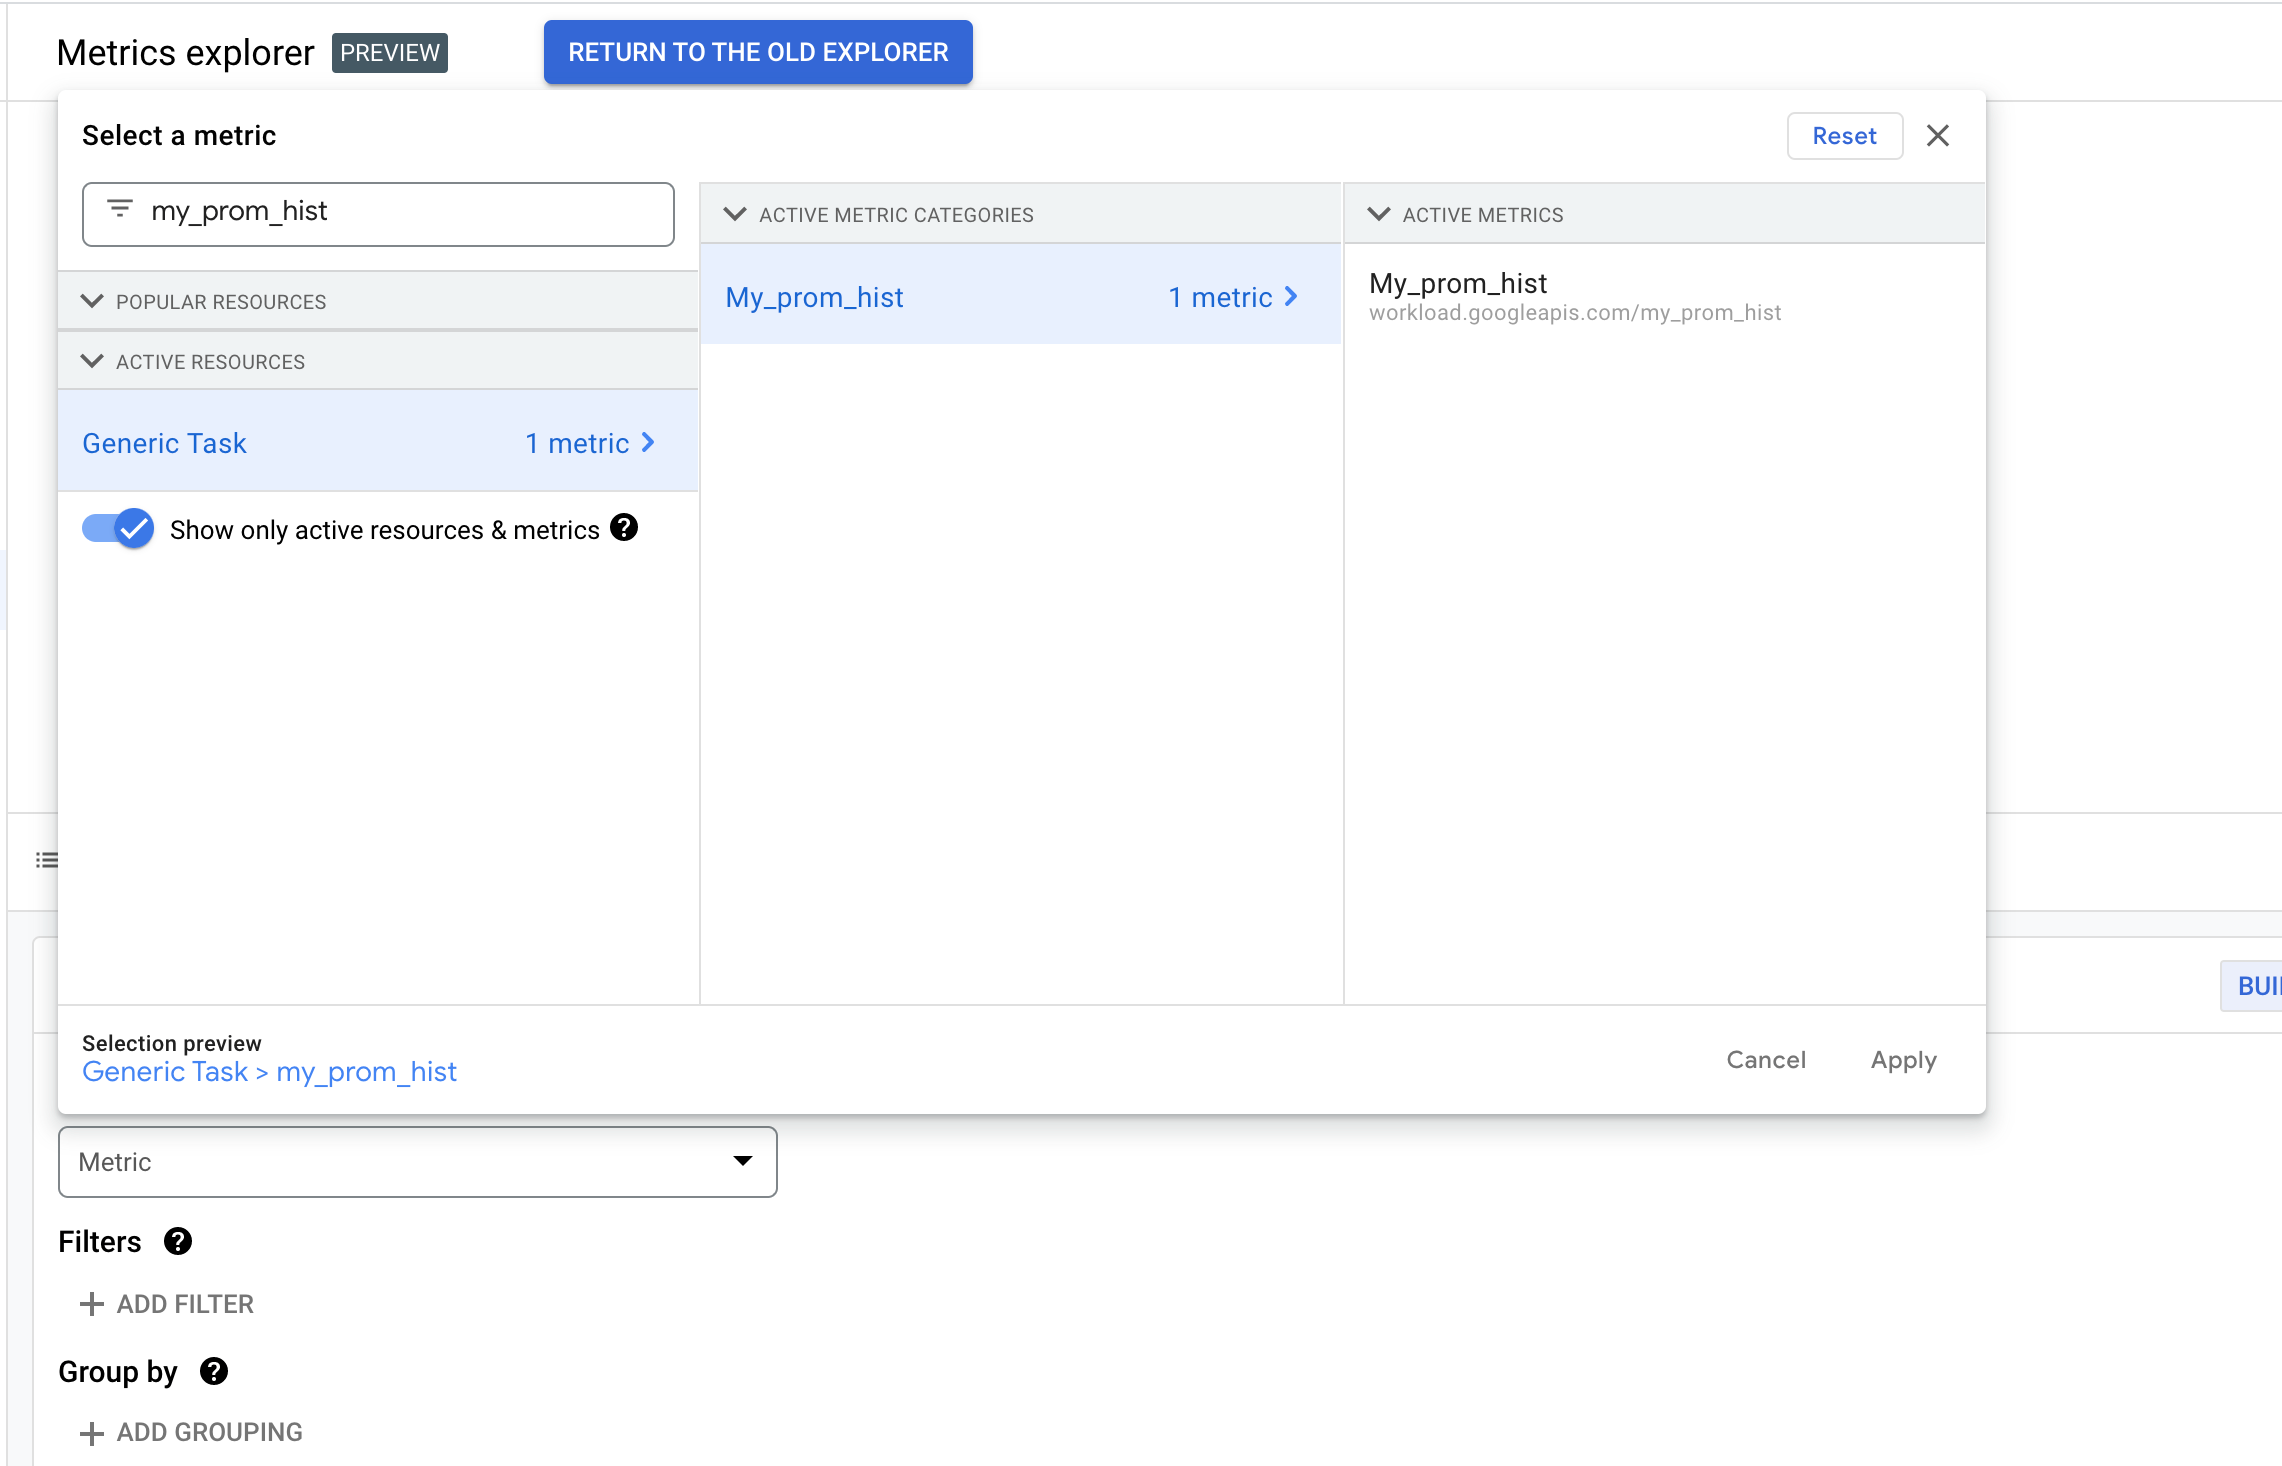
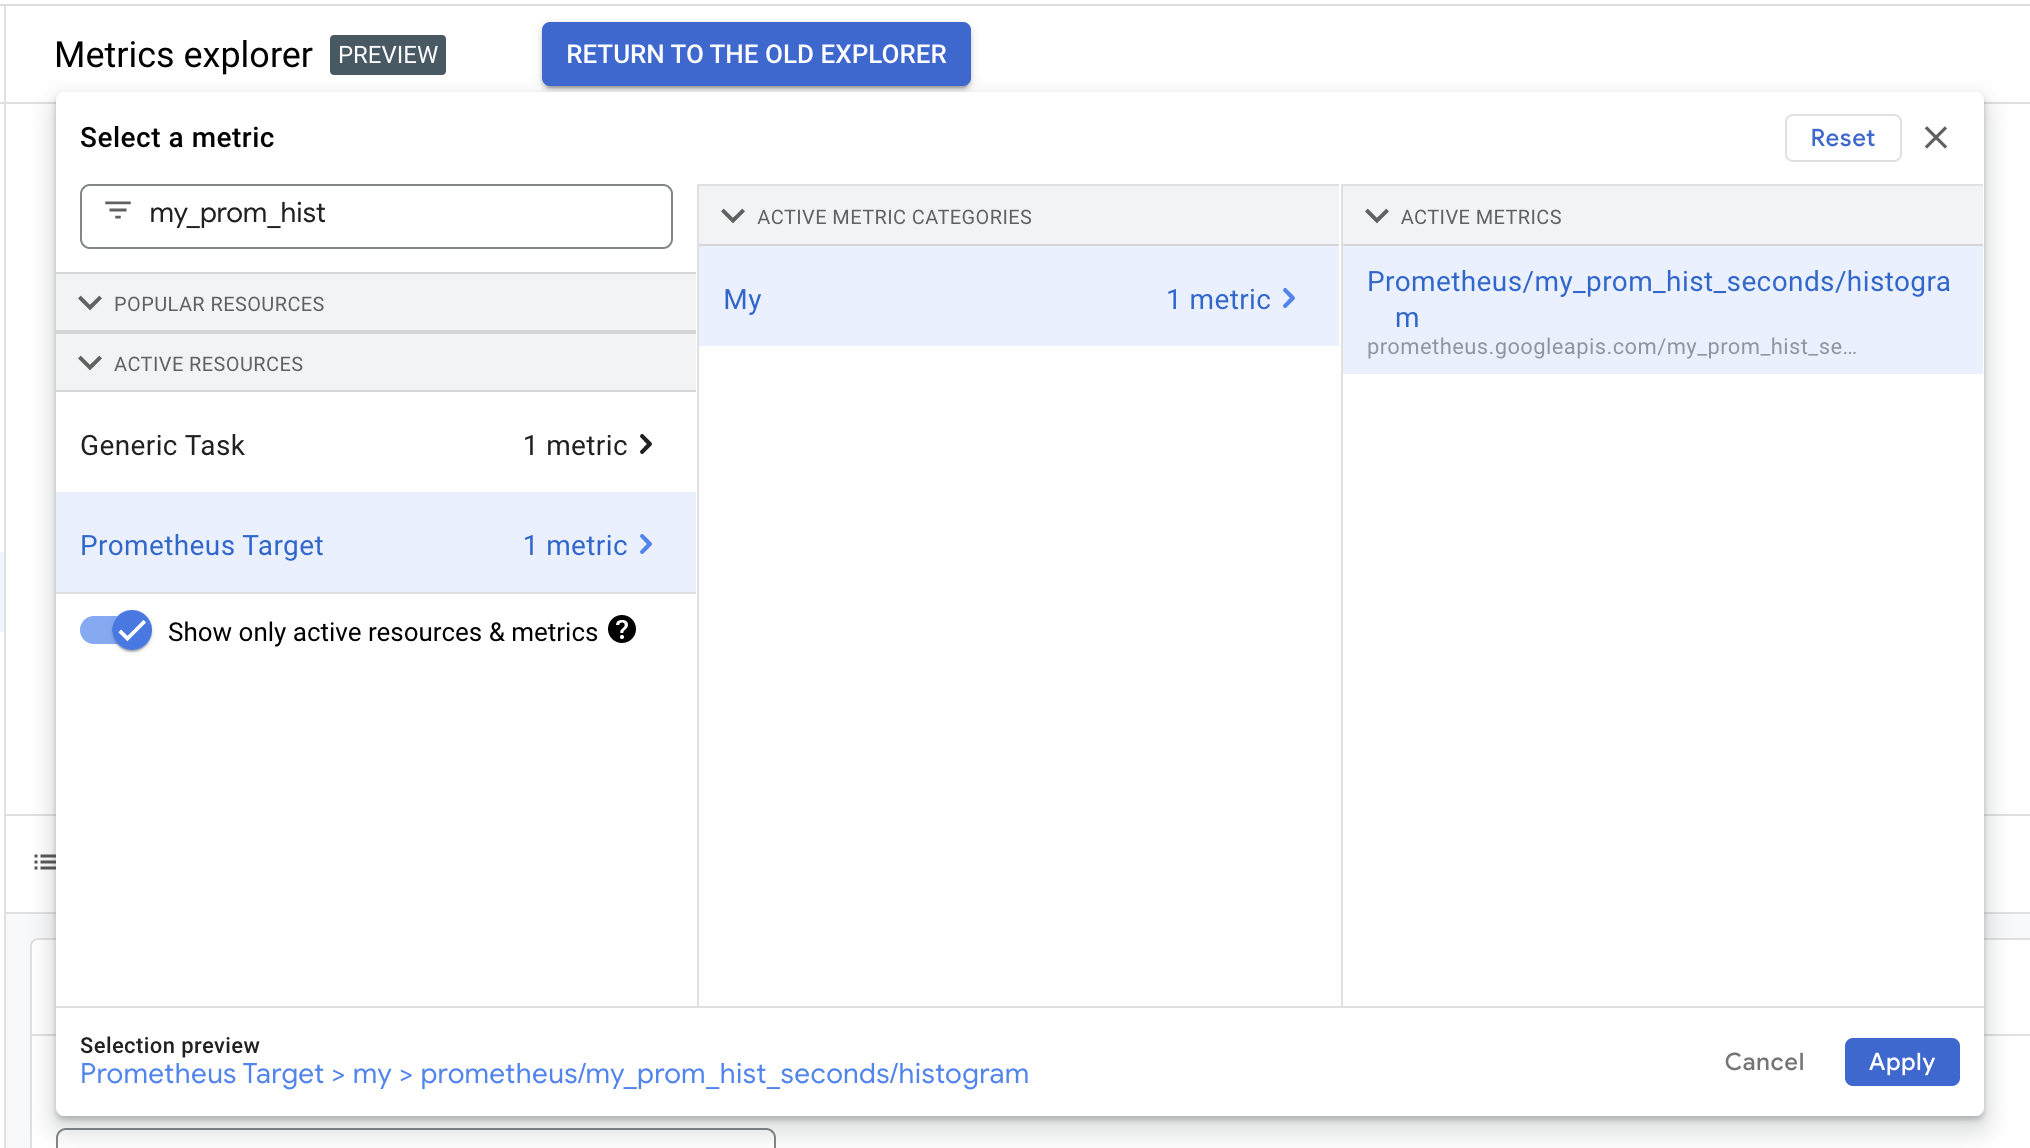
Review comments, use GMP

diff --git a/docs/examples/prometheus_exemplars/server.py b/docs/examples/prometheus_exemplars/server.py
@@ -17,6 +17,7 @@
 
 import time
 import random
+from typing import Dict, Optional
 
 from flask import Flask
 from werkzeug.middleware.dispatcher import DispatcherMiddleware
@@ -38,7 +39,7 @@ from opentelemetry.sdk.trace.sampling import ParentBasedTraceIdRatio
 
 resource = Resource.create(
     {
-        "service.name": "flask_e2e_server",
+        "service.name": "prometheus_exemplars",
         "service.namespace": "examples",
         "service.instance.id": "instance123",
     }
@@ -79,7 +80,8 @@ hist = Histogram(
 
 @app.route("/")
 def hello_world():
-    # unfortunately, Histogram.time()'s return Timer doesn't let you set the exemplar. Instead, I'll time it manually.
+    # unfortunately, Histogram.time()'s returned Timer doesn't let you set the exemplar.
+    # Instead, time it manually.
     start = time.time_ns()
 
     with tracer.start_as_current_span("do_work"):
@@ -88,20 +90,30 @@ def hello_world():
     end = time.time_ns()
     duration_sec = (end - start) / 10**9
 
-    # [START opentelemetry_prom_exemplars_attach]
-    span_context = trace.get_current_span().get_span_context()
-    # only include the exemplar if it is sampled
-    if span_context.trace_flags.sampled:
-        # you must set the trace_id and span_id exemplar labels like this to link OTel and
-        # Prometheus
-        exemplar_attrs = {
-            "trace_id": trace.format_trace_id(span_context.trace_id),
-            "span_id": trace.format_span_id(span_context.span_id),
-        }
-        hist.labels(name="foo").observe(duration_sec, exemplar_attrs)
-    # [END opentelemetry_prom_exemplars_attach]
+    # observe with exemplars
+    # [START opentelemetry_prom_exemplars_observe]
+    hist.labels(name="foo").observe(duration_sec, get_prom_exemplars())
+    # [END opentelemetry_prom_exemplars_observe]
 
     return "Hello, World!"
 
 
 # [END opentelemetry_prom_exemplars_instrument]
+
+
+# [START opentelemetry_prom_exemplars_attach]
+def get_prom_exemplars() -> Optional[Dict[str, str]]:
+    """Generates an exemplar dictionary from the current implicit OTel context if available"""
+    span_context = trace.get_current_span().get_span_context()
+
+    # Only include the exemplar if it is valid and sampled
+    if span_context.is_valid and span_context.trace_flags.sampled:
+        # You must set the trace_id and span_id exemplar labels like this to link OTel and
+        # Prometheus. They must be formatted as hexadecimal strings.
+        return {
+            "trace_id": trace.format_trace_id(span_context.trace_id),
+            "span_id": trace.format_span_id(span_context.span_id),
+        }
+
+    return None
+    # [END opentelemetry_prom_exemplars_attach]

diff --git a/docs/examples/prometheus_exemplars/README.rst b/docs/examples/prometheus_exemplars/README.rst
@@ -12,8 +12,9 @@ Spans in Cloud Trace.
 
 OpenTelemetry Python is configured to send traces to the `OpenTelemetry Collector
 <https://opentelemetry.io/docs/collector/>`_ and the Collector scrapes the python server's
-Prometheus endpoint. The Collector is configured to send everything to Google Cloud Monitoring
-and Trace.
+Prometheus endpoint. The Collector is configured to send metrics to `Google Cloud Managed
+Service for Prometheus <https://cloud.google.com/stackdriver/docs/managed-prometheus>`_ and
+traces to `Google Cloud Trace <https://cloud.google.com/trace/docs/overview>`_.
 
 To run this example you first need to:
     * Create a Google Cloud project. You can `create one here <https://console.cloud.google.com/projectcreate>`_.
@@ -29,13 +30,23 @@ Prometheus exemplars can be linked to OpenTelemetry spans by setting the ``span_
 <https://github.com/open-telemetry/opentelemetry-specification/blob/v1.20.0/specification/compatibility/prometheus_and_openmetrics.md#exemplars>`_).
 You can get the current span using :func:`opentelemetry.trace.get_current_span`, then format
 its span and trace IDs to hexadecimal strings using :func:`opentelemetry.trace.format_span_id`
-and :func:`opentelemetry.trace.format_trace_id` respectively.
+and :func:`opentelemetry.trace.format_trace_id`.
 
 .. literalinclude:: server.py
     :language: python
     :dedent:
     :start-after: [START opentelemetry_prom_exemplars_attach]
     :end-before: [END opentelemetry_prom_exemplars_attach]
+
+Then make an observation using a `Prometheus Histogram
+<https://prometheus.io/docs/concepts/metric_types/#histogram>`_ as shown below. Google Cloud
+Monitoring can only display exemplars attached to Histograms.
+
+.. literalinclude:: server.py
+    :language: python
+    :dedent:
+    :start-after: [START opentelemetry_prom_exemplars_observe]
+    :end-before: [END opentelemetry_prom_exemplars_observe]
 
 Run
 ---
@@ -60,7 +71,7 @@ Build and start the example containers using ``docker-compose``:
 
 .. code-block:: sh
 
-    docker-compose up --build
+    docker-compose up --build --abort-on-container-exit
 
 This starts three containers:
 
@@ -68,18 +79,18 @@ This starts three containers:
    waiting for a random amount of time.
 #. The OpenTelemetry Collector which receives traces from the Flask server by OTLP and scrapes
    Prometheus metrics from the Flask server's ``/metrics`` endpoint.
-#. A load generating script that sends constant requests to the Flask server.
+#. A load generator that sends constant requests to the Flask server.
 
 Checking Output
 ---------------
 
 While running the example, you can go to `Cloud Monitoring Metrics Explorer page
 <https://console.cloud.google.com/monitoring/metrics-explorer>`_ to see the results. Click on
-the "Metric" dropdown, type ``my_prom_hist``, and select the metric from under "Generic Task". The
-full metric name is ``workload.googleapis.com/my_prom_hist``.
+the "Metric" dropdown, type ``my_prom_hist``, and select the metric from under "Prometheus
+Target". The full metric name is ``prometheus.googleapis.com/my_prom_hist_seconds/histogram``.
 
 .. image:: select_metric.png
-  :alt: Metrics explorer heatmap
+  :alt: Select the metric
 
 After selecting the metric, you should see something like the image below, with a heatmap
 showing the distribution of request durations in the Python server.
